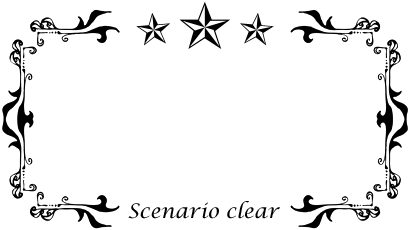
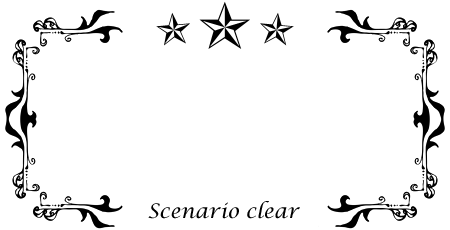
Modified: Dialog Adjust

diff --git a/stext/sgml.js b/stext/sgml.js
@@ -594,7 +594,7 @@
           setTimeout(function() {
             $.zoombox.html(bonus_dialog.html(),
               {
-                width: 500,
+                width: 480,
                 height: 200
               }
             );  
